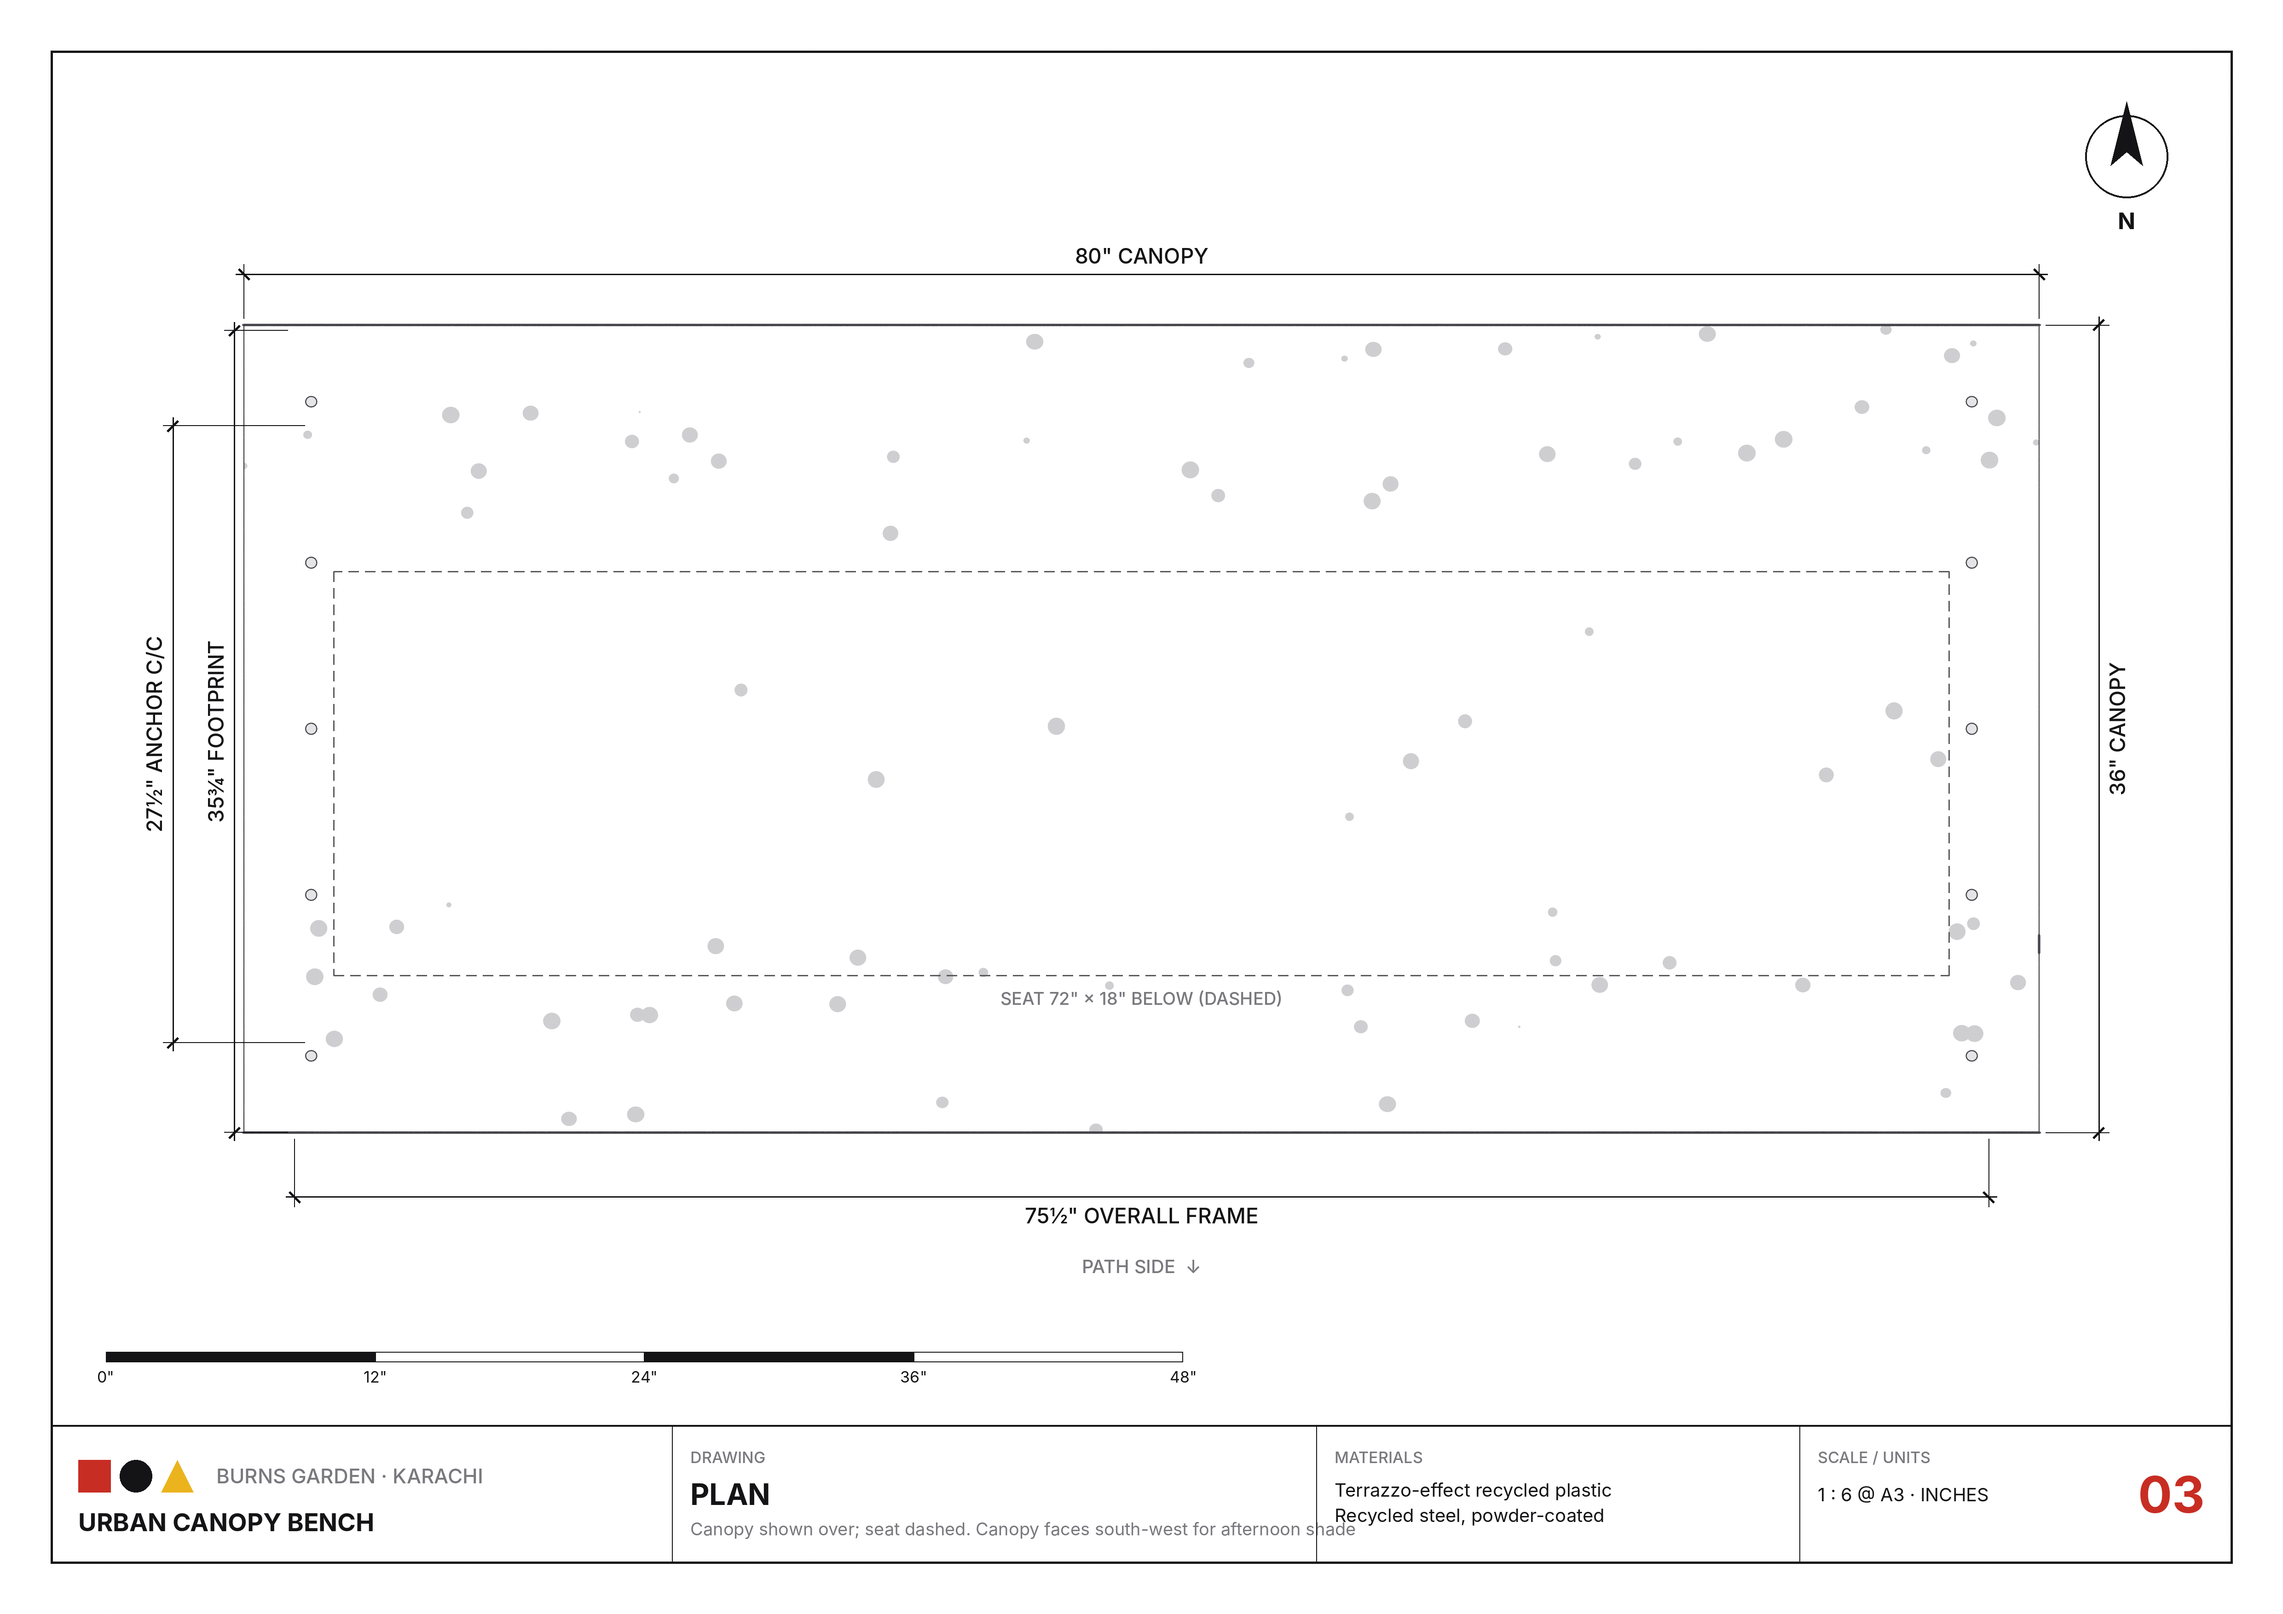
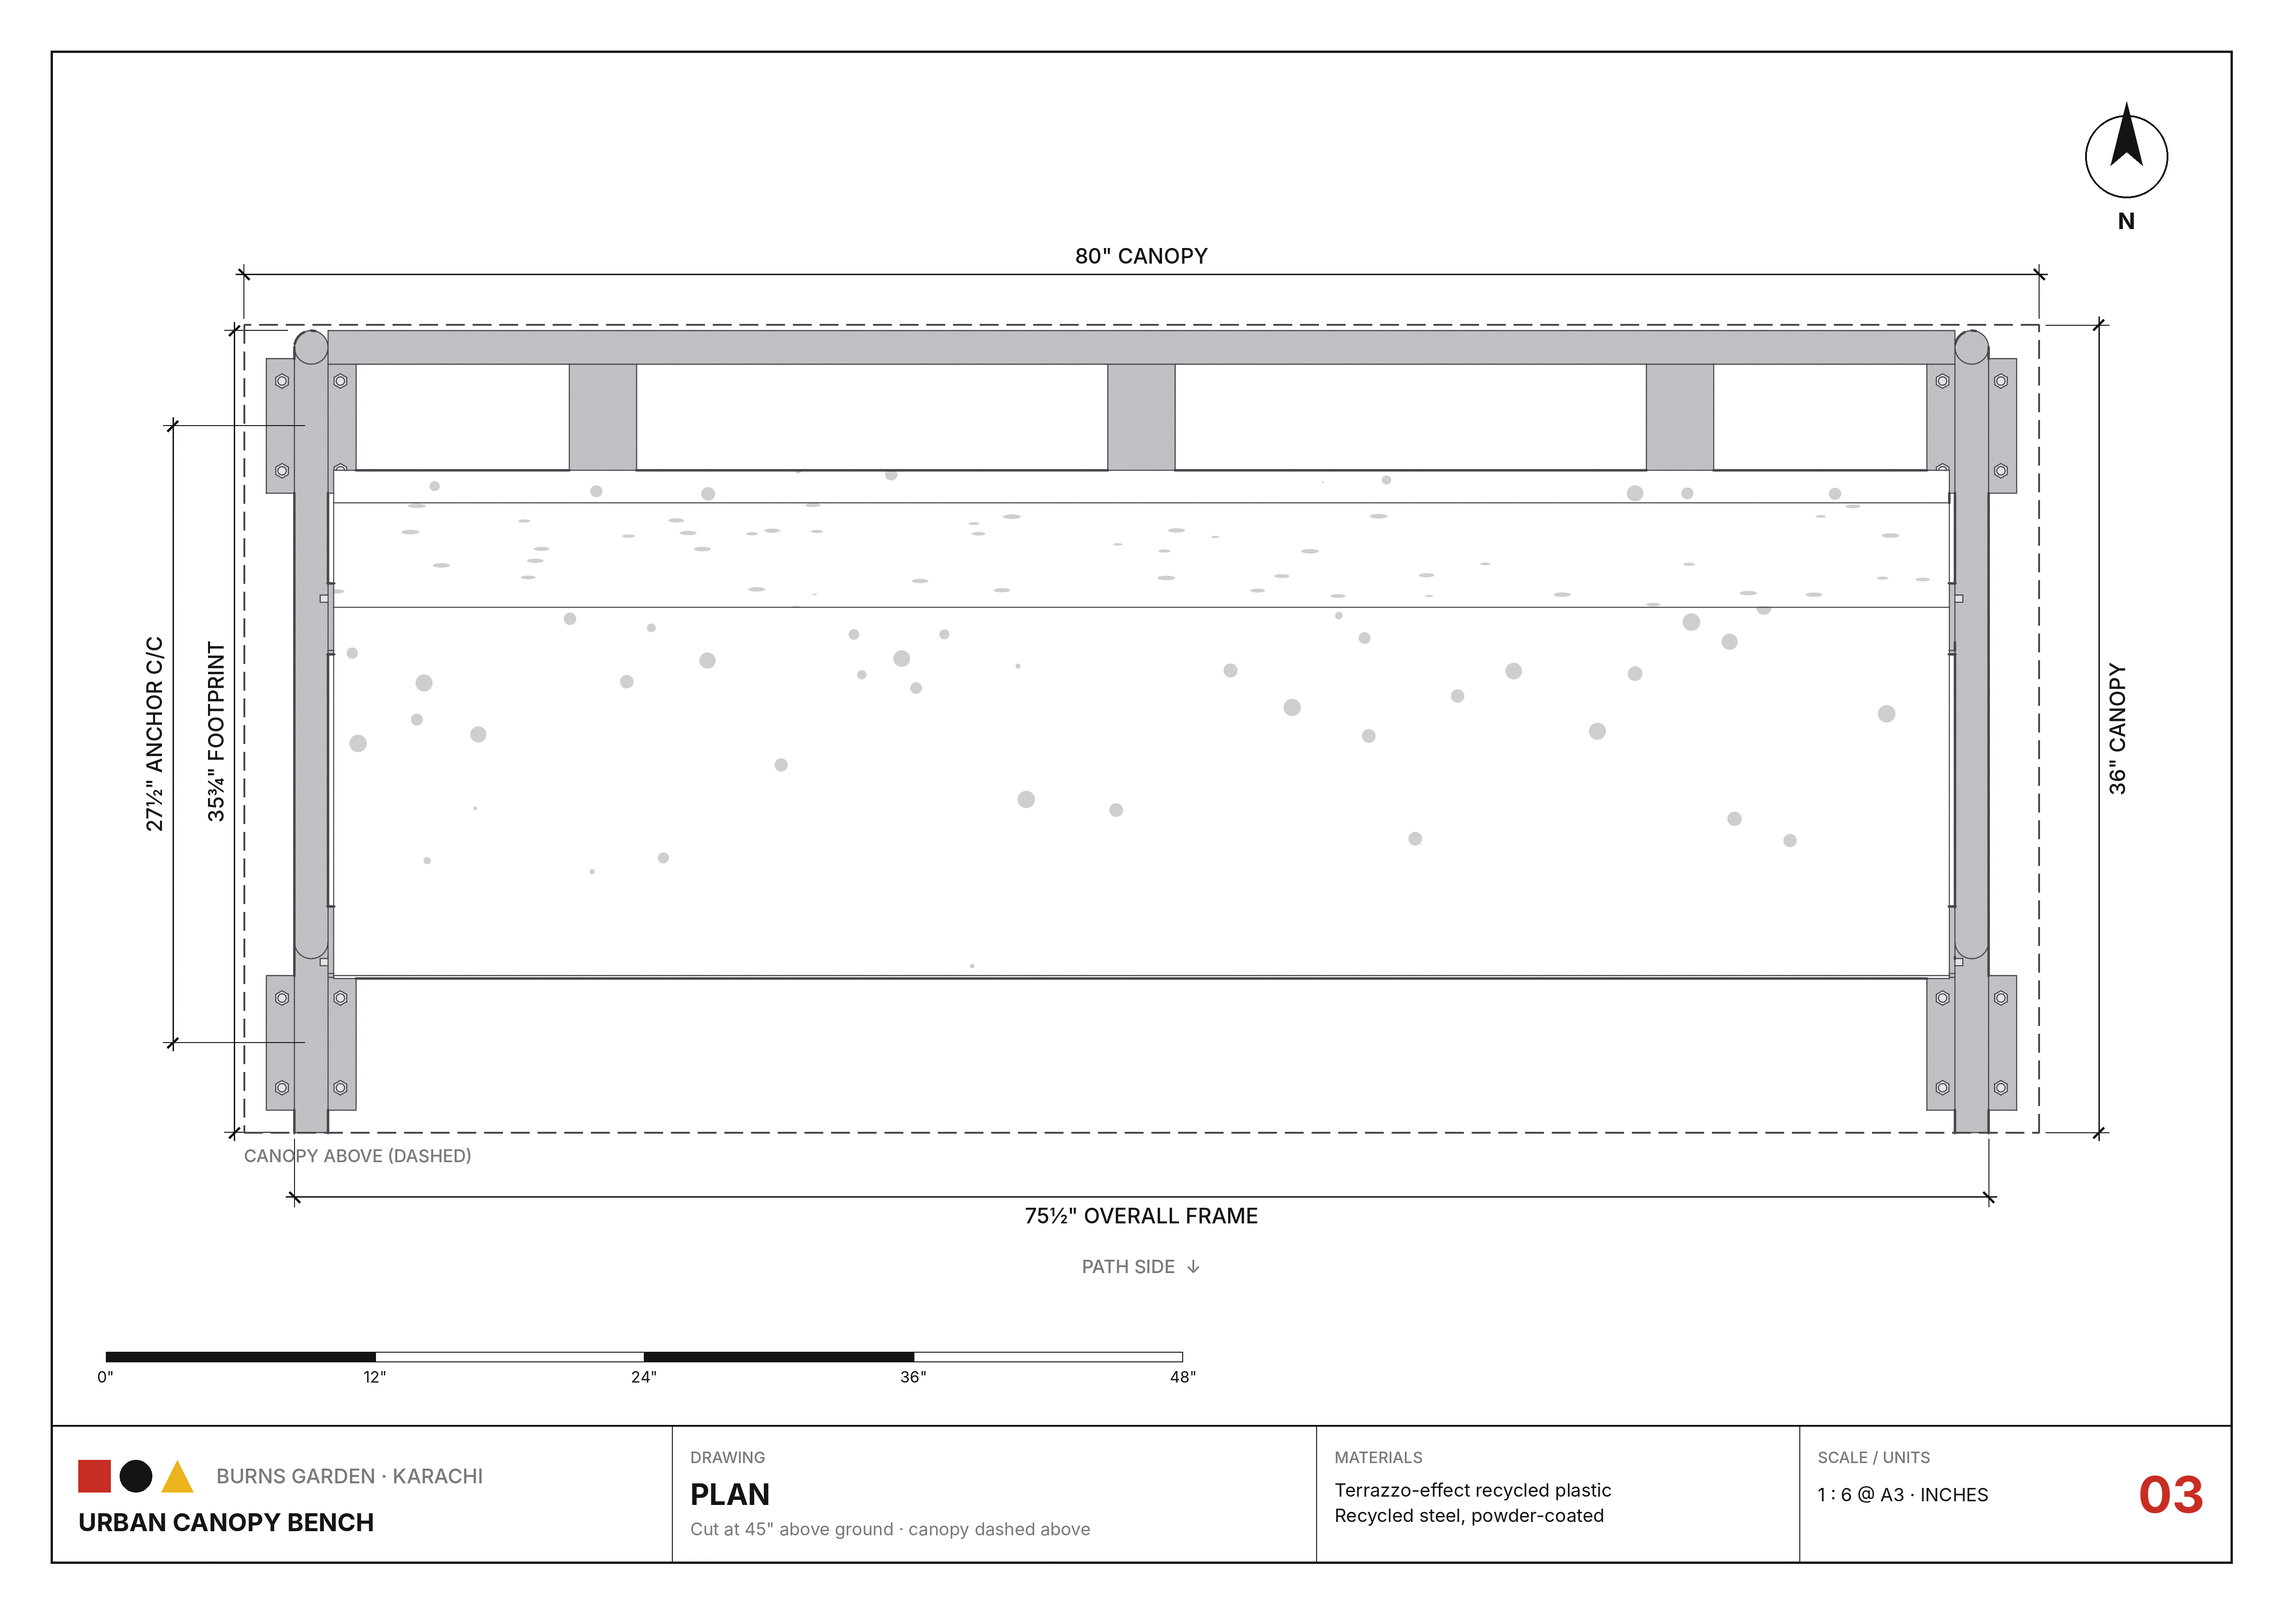
Plan as 45in cut with dashed canopy; park scene path level and southern trees
Claude-Session: https://claude.ai/code/session_01Xr7k8rd1xXpnKuX7Dzc1Vc

diff --git a/bench/renders.py b/bench/renders.py
@@ -166,8 +166,8 @@ def scene_park(sc, grass_dense=True):
     c = E.coll("Context")
     neem, palm, dry, bark, pbark = leaf_mats()
     conc = E.mat_concrete("Concrete_Path", joint=1.5, tint=(0.70, 0.67, 0.62))
-    E.box_obj("Path", c, (0, -1.9, -0.06), (80, 2.4, 0.15), conc)
-    E.box_obj("Bench_Pad", c, (0, 0.2, -0.06), (2.6, 1.8, 0.15), conc)
+    E.box_obj("Path", c, (0, -1.9, -0.075), (80, 2.4, 0.15), conc)
+    E.box_obj("Bench_Pad", c, (0, 0.2, -0.075), (2.6, 1.8, 0.15), conc)
     # path edging (brick-red Karachi park kerb)
     edge = E.mat_simple("Path_Edge", (0.62, 0.36, 0.26), 0.9)
     for y in (-3.13, -0.67):
@@ -191,17 +191,21 @@ def scene_park(sc, grass_dense=True):
                                        (9.0, 11.0, 10.0, (0.05, -0.03)), (14.5, 7.5, 8.5, (-0.06, 0.0)),
                                        (-22, 18, 12, (0.03, 0.03)), (26, 20, 11, (0.0, 0.05)))):
         E.make_palm(f"Palm{i}", c, (x, y, 0), h, seed=30 + i, lean=ln, leaf_mat=palm, bark_mat=pbark)
+    for i, (x, y, h) in enumerate(((-11, -12, 10), (16, -19, 11), (8, -33, 12))):
+        E.make_palm(f"PalmS{i}", c, (x, y, 0), h, seed=90 + i, lean=(0.04, -0.03), leaf_mat=palm, bark_mat=pbark)
     for i, (x, y, h, s) in enumerate(((4.5, 8.0, 9.5, 1.1), (-3.0, 16.0, 12.0, 1.2), (18, 15, 11, 1.0),
                                       (-16, 9, 10, 1.1), (-30, 25, 13, 1.2), (34, 28, 13, 1.2), (8, 30, 14, 1.3),
-                                      (-8, -14, 10, 1.0), (12, -16, 11, 1.1))):
+                                      (-8, -14, 10, 1.0), (12, -16, 11, 1.1), (-17, -21, 12, 1.2), (4, -26, 12, 1.1),
+                                      (22, -11, 10, 1.0), (-26, -8, 11, 1.2), (30, -24, 13, 1.2), (-6, -38, 13, 1.2))):
         E.make_tree(f"Neem{i}", c, (x, y, 0), h, seed=50 + i, spread=s, leaf_mat=neem, bark_mat=bark)
     # far tree line and city beyond, hazy
     hz = HAZE_PARK
     for m_ in (neem, palm, bark, pbark):
         pass
-    for i in range(18):
+    for i in range(30):
         rr = random.Random(400 + i)
-        E.make_tree(f"FarTree{i}", c, (rr.uniform(-70, 70), rr.uniform(40, 55), 0), rr.uniform(10, 15), seed=600 + i,
+        fy = rr.uniform(40, 55) if i < 18 else -rr.uniform(45, 60)
+        E.make_tree(f"FarTree{i}", c, (rr.uniform(-70, 70), fy, 0), rr.uniform(10, 15), seed=600 + i,
                     spread=1.2, leaf_mat=neem, bark_mat=bark, leaves_per_tip=30, depth=3, cluster_r=0.8, leaf_len=0.12, leaf_w=0.05)
     for i in range(16):
         rr = random.Random(700 + i)

diff --git a/bench/drawings.py b/bench/drawings.py
@@ -438,7 +438,7 @@ def sheet_plan(sc, parts):
     # canopy above the cut plane: dashed outline
     for (xa, ya), (xb, yb) in [((-L2, y0), (L2, y0)), ((L2, y0), (L2, y1)), ((L2, y1), (-L2, y1)), ((-L2, y1), (-L2, y0))]:
         s.dashed(p(xa, ya), p(xb, yb), dash=40, gap=18, w=4, fill=(70, 70, 75))
-    s.note(Vector(p(-L2, y1)) + Vector((20, 50)), "CANOPY ABOVE (DASHED)", 38, anchor="lm", weight="m", fill=GREY)
+    s.note(Vector(p(-L2, y0)) + Vector((0, 50)), "CANOPY ABOVE (DASHED)", 38, anchor="lm", weight="m", fill=GREY)
     # north arrow / orientation
     na = Vector((W - MARGIN - 230, MARGIN + 230))
     s.d.ellipse([na.x - 90, na.y - 90, na.x + 90, na.y + 90], outline=INK, width=4)
